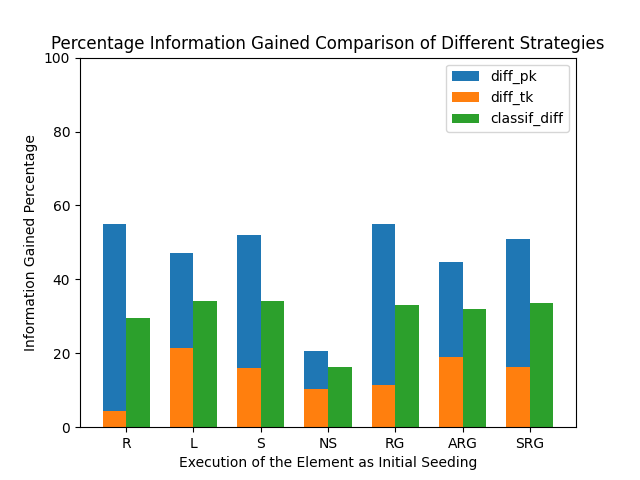
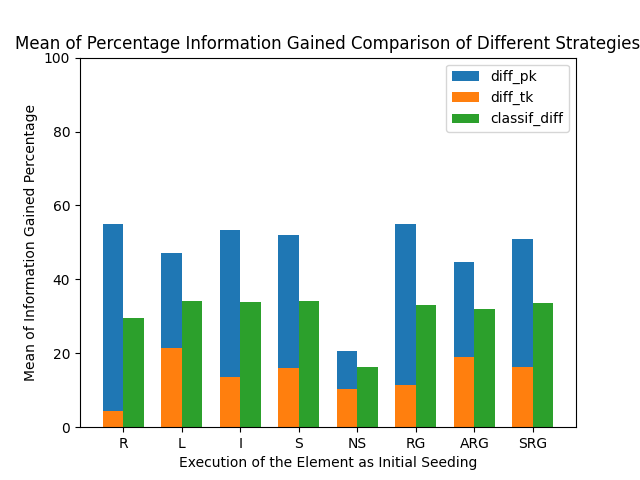
added the strategy of giving an intermediate node as the initial seeding

Changed region(s): [[0.1875, 0.4688, 0.875, 0.9375], [0.0, 0.0625, 1.0, 0.125], [0.0312, 0.2188, 0.0625, 0.8125]]

diff --git a/src/TaxonomyAnalyzer.py b/src/TaxonomyAnalyzer.py
@@ -37,6 +37,7 @@ def analyse_data(model_data):
         element_data['gufo_classification'] = model_data.loc[i, 'gufo_classification']
         element_data['is_root'] = model_data.loc[i, 'is_root']
         element_data['is_leaf'] = model_data.loc[i, 'is_leaf']
+        element_data['is_intermediate'] = model_data.loc[i, 'is_intermediate']
         element_data['number_superclasses'] = model_data.loc[i, 'number_superclasses']
         element_data['number_subclasses'] = model_data.loc[i, 'number_subclasses']
 
@@ -61,6 +62,14 @@ def enforce_strategy_on_elements(strategy, elements, elements_statistics):
             elements_to_be_removed = []
             for element in elements.keys():
                 if not elements[element]['is_leaf']:
+                    elements_to_be_removed.append(element)
+            for element in elements_to_be_removed:
+                del elements[element]
+                del elements_statistics[element]
+        case 'INTERMEDIATE':
+            elements_to_be_removed = []
+            for element in elements.keys():
+                if not elements[element]['is_intermediate']:
                     elements_to_be_removed.append(element)
             for element in elements_to_be_removed:
                 del elements[element]

diff --git a/src/Grapher.py b/src/Grapher.py
@@ -26,14 +26,14 @@ def make_strategy_graph(strategy_statistics):
     bars3 = ax.bar(x + width / 2, strategy_classif_diff, width, label='classif_diff')
 
     ax.set_xlabel('Execution of the Element as Initial Seeding')
-    ax.set_ylabel('Information Gained Percentage')
-    ax.set_title('Percentage Information Gained Comparison of Different Strategies')
+    ax.set_ylabel('Mean of Information Gained Percentage')
+    ax.set_title('Mean of Percentage Information Gained Comparison of Different Strategies')
 
     ax.set_ylim(0, 100)
     ax.set_xticks(x)
 
     # TODO SHOULD BE STRATEGY NAMES
-    ax.set_xticklabels(['R', 'L', 'S', 'NS', 'RG', 'ARG', 'SRG'])
+    ax.set_xticklabels(['R', 'L', 'I', 'S', 'NS', 'RG', 'ARG', 'SRG'])
     ax.legend()
 
     plot_name = 'strategy_comparison_graph.png'

diff --git a/src/FileReader.py b/src/FileReader.py
@@ -134,6 +134,7 @@ def find_number_of_taxonomies(model_path):
 STRATEGIES = [
     'ROOT',
     'LEAF',
+    'INTERMEDIATE',
     'SORTAL',
     'NON_SORTAL',
     'RIGID',
